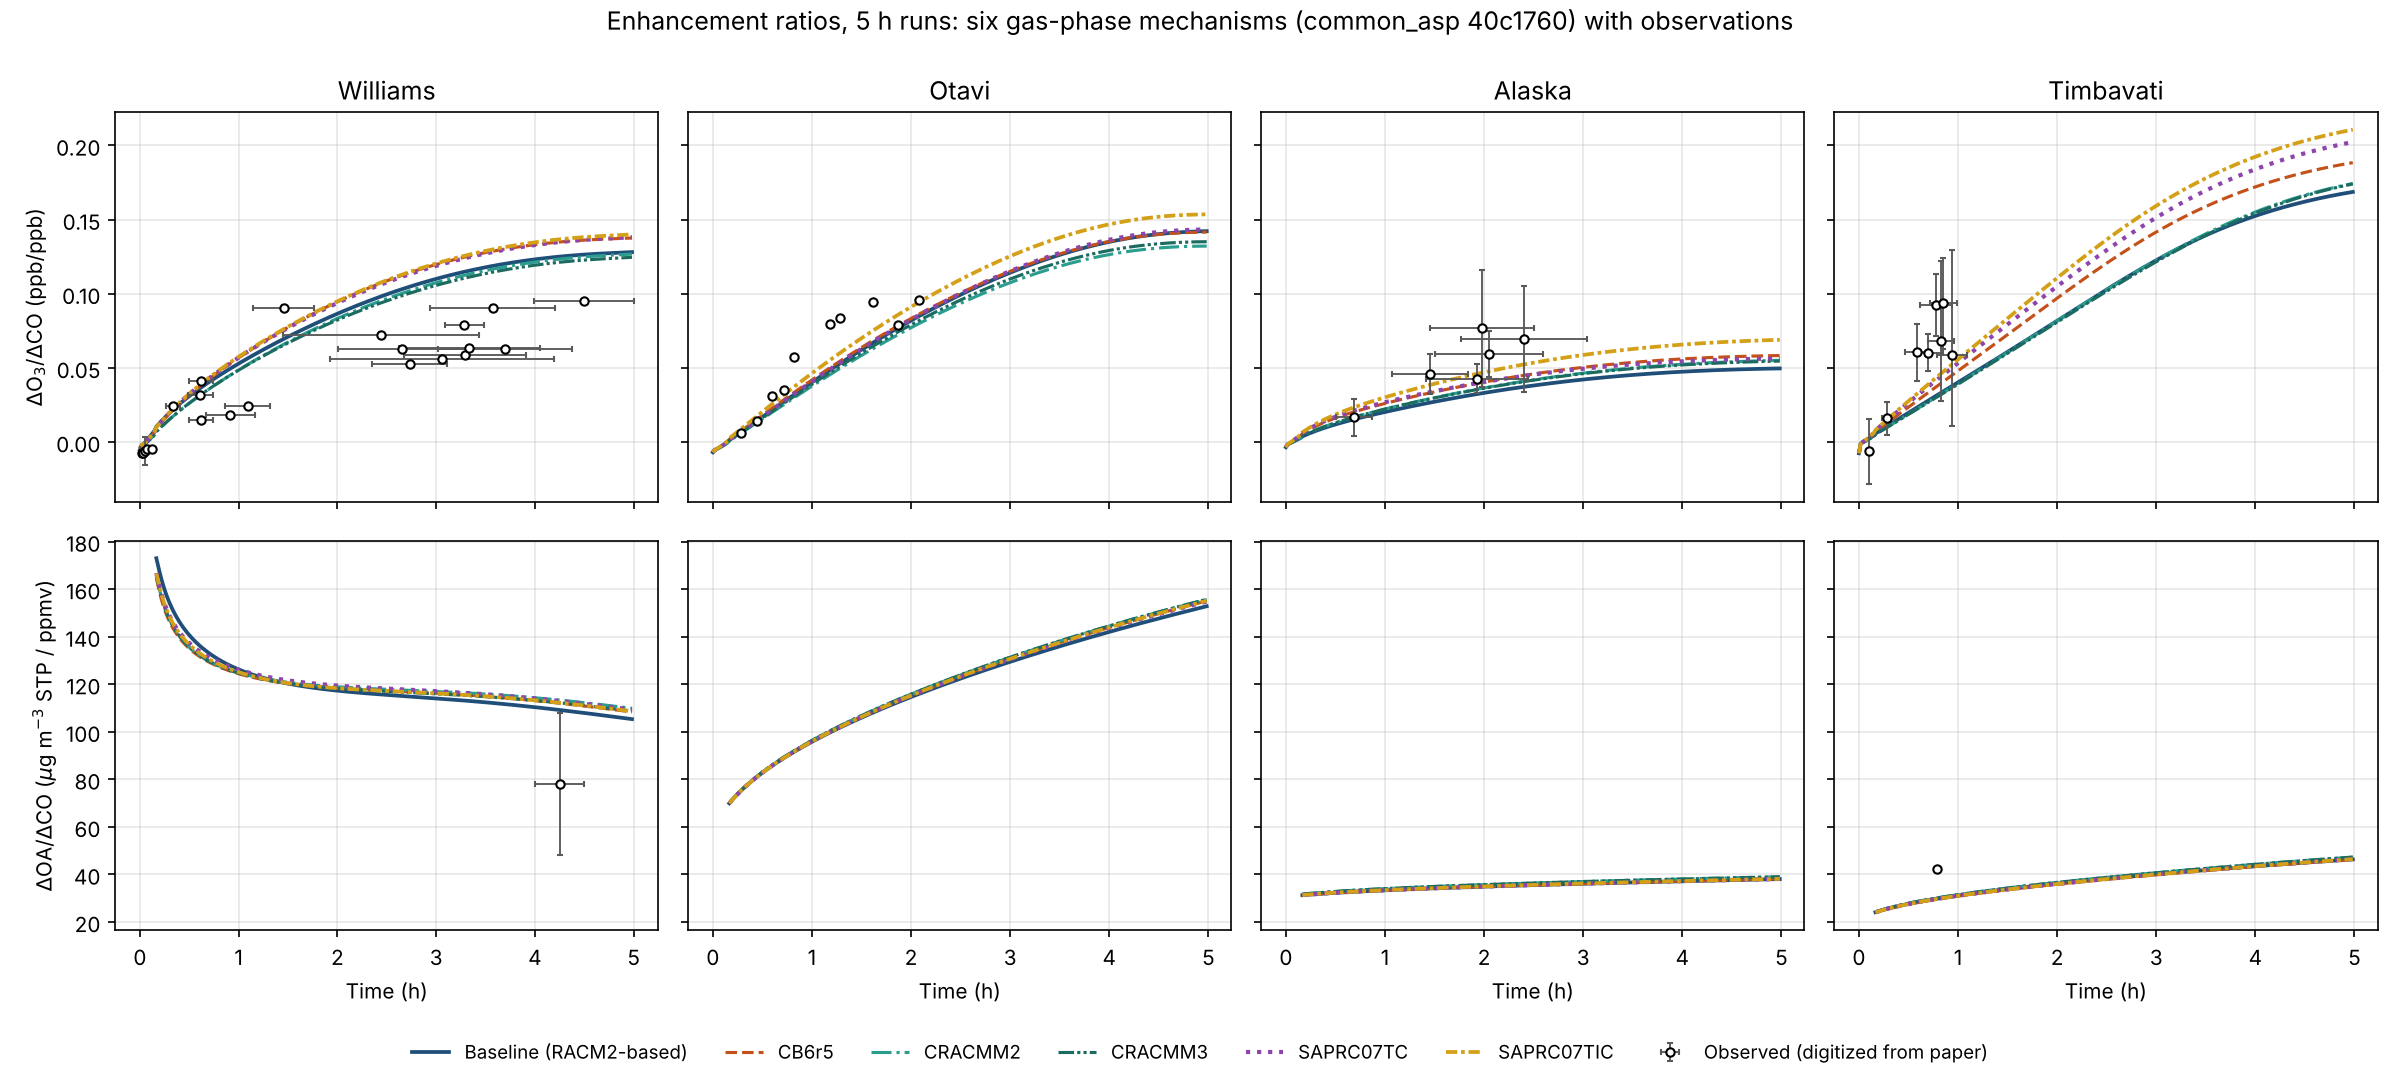
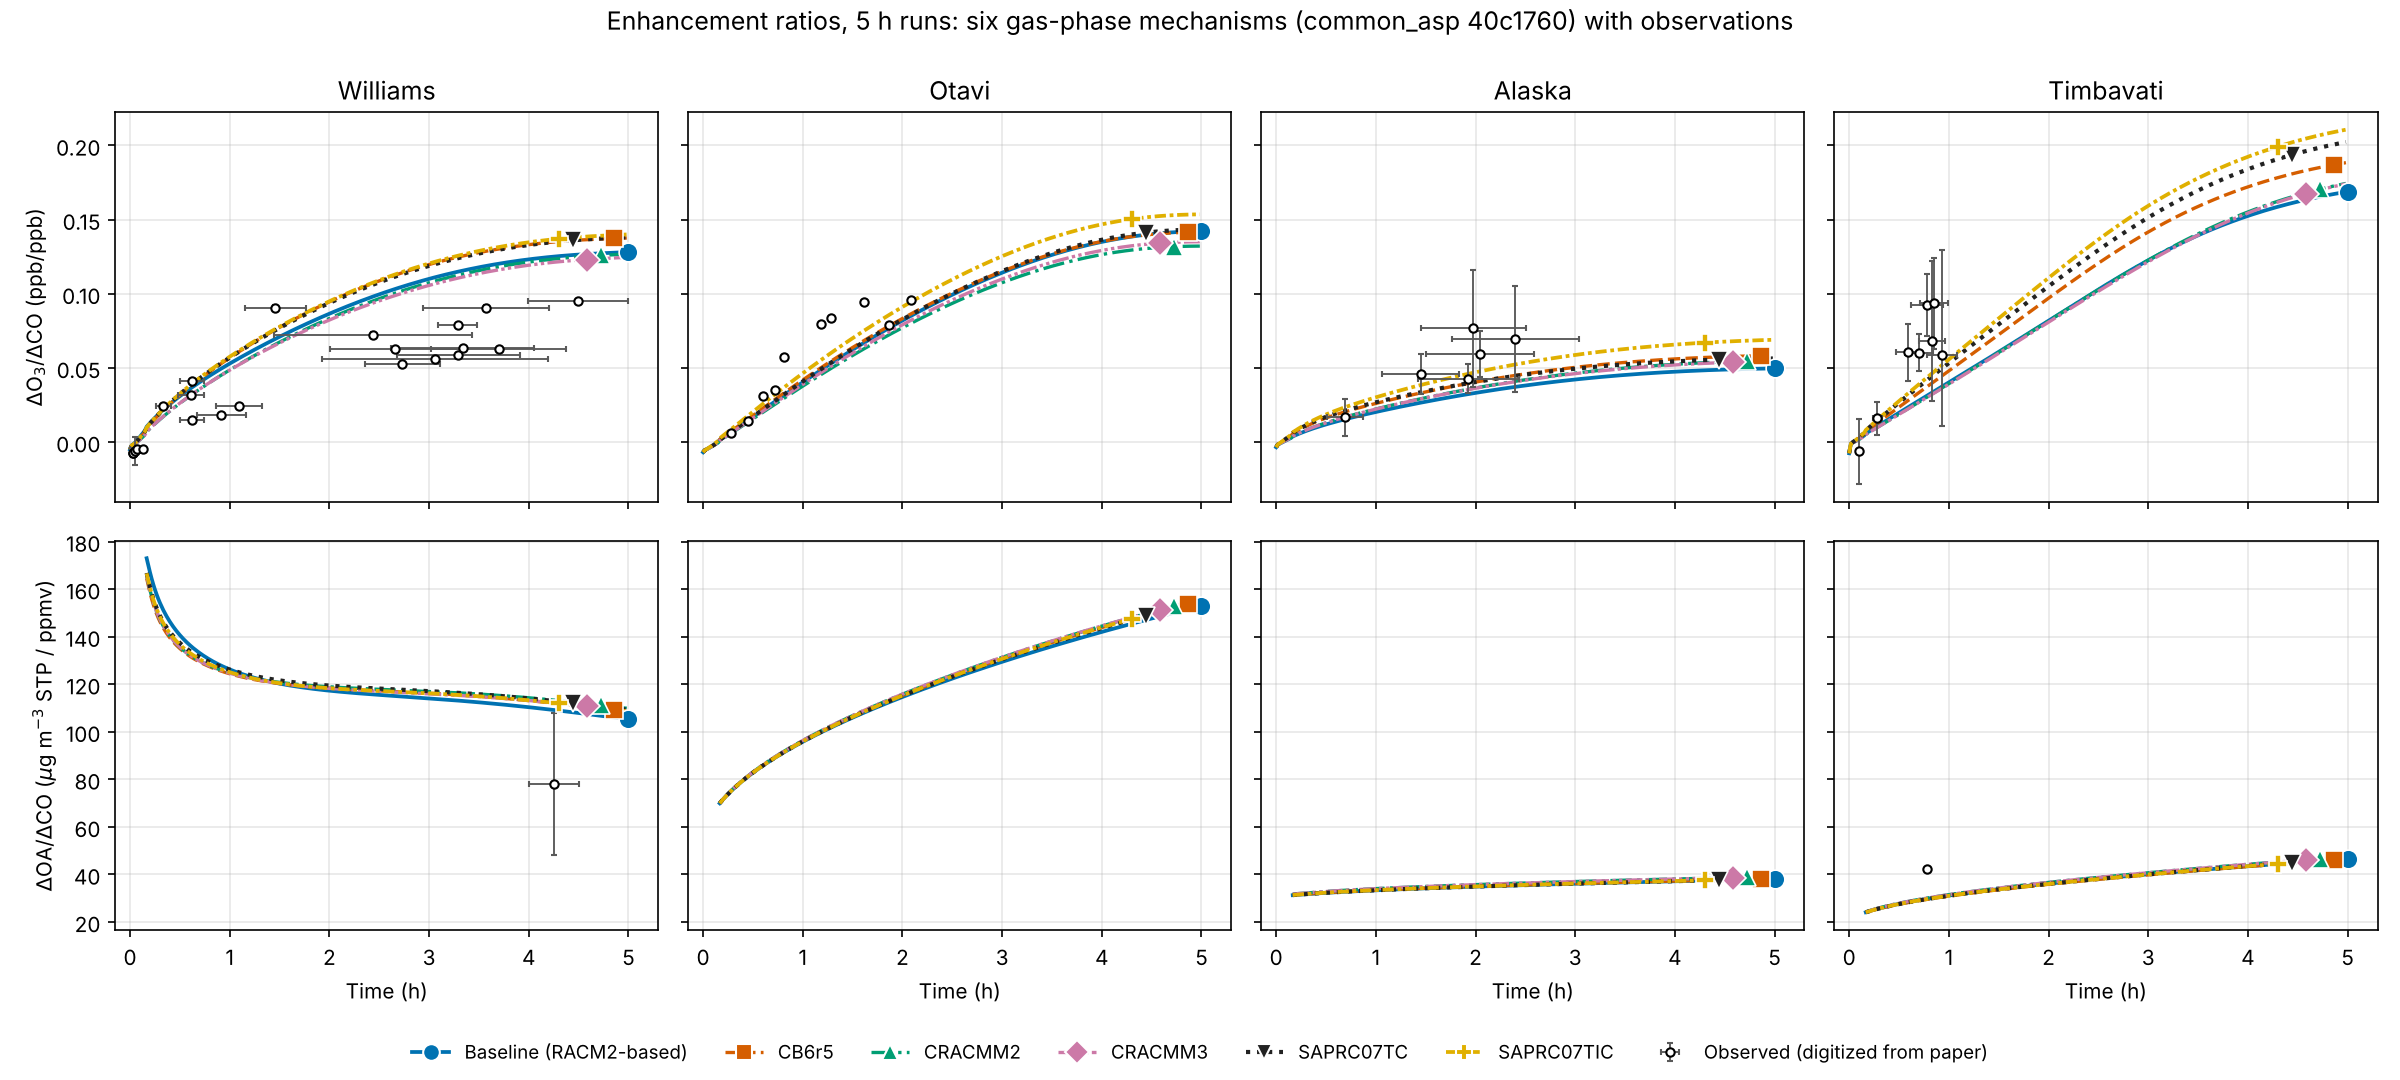
Plot: colorblind-safe palette and distinct end markers per mechanism
Claude-Session: https://claude.ai/code/session_01NKWstewGfixjYpUH8jReac

diff --git a/CB6r5Translation/plot_enhancement_ratios.py b/CB6r5Translation/plot_enhancement_ratios.py
@@ -43,18 +43,19 @@ def oa_series(run):
 
 fig, ax = plt.subplots(2, 4, figsize=(16, 7.2), sharex='col', sharey='row')
 # tag -> deck-name suffix, style
-MECHS = [('base', '', dict(color='#1f4e79', ls='-', lw=1.8, label='Baseline (RACM2-based)')),
-         ('cb6', '_CB6r5', dict(color='#c4511a', ls='--', lw=1.5, label='CB6r5')),
-         ('cr2', '_CRACMM2', dict(color='#2a9d8f', ls='-.', lw=1.5, label='CRACMM2')),
-         ('cr3', '_CRACMM3', dict(color='#1b6b60', ls=(0, (5, 1, 1, 1, 1, 1)), lw=1.5, label='CRACMM3')),
-         ('stc', '_SAPRC07TC', dict(color='#8e44ad', ls=':', lw=2.0, label='SAPRC07TC')),
-         ('sti', '_SAPRC07TIC', dict(color='#d4a017', ls=(0, (3, 1, 1, 1)), lw=1.8, label='SAPRC07TIC'))]
-sty = {t: st for t, _, st in MECHS}
+MECHS = [('base', '', dict(color='#0072B2', ls='-', lw=1.8, label='Baseline (RACM2-based)'), 'o'),
+         ('cb6', '_CB6r5', dict(color='#D55E00', ls='--', lw=1.6, label='CB6r5'), 's'),
+         ('cr2', '_CRACMM2', dict(color='#009E73', ls='-.', lw=1.6, label='CRACMM2'), '^'),
+         ('cr3', '_CRACMM3', dict(color='#CC79A7', ls=(0, (5, 1, 1, 1, 1, 1)), lw=1.6, label='CRACMM3'), 'D'),
+         ('stc', '_SAPRC07TC', dict(color='#222222', ls=':', lw=2.0, label='SAPRC07TC'), 'v'),
+         ('sti', '_SAPRC07TIC', dict(color='#E0B000', ls=(0, (3, 1, 1, 1)), lw=1.8, label='SAPRC07TIC'), 'P')]
+MARK = {t: mk for t, _, _, mk in MECHS}
+sty = {t: st for t, _, st, _ in MECHS}
 summary = []
 for j, case in enumerate(CASES):
     T, P = TP[case]
     bg = co_bg(case)
-    for tag, suf, _ in MECHS:
+    for tag, suf, _, _ in MECHS:
         run = f'{root}/{case}{suf}'
         if not os.path.isdir(run + '/OutputFiles'):
             continue
@@ -65,12 +66,15 @@ for j, case in enumerate(CASES):
         keep = np.r_[True, np.diff(te) > 0]
         te, o3r = te[keep], o3r[keep]
         ax[0, j].plot(te / 3600, o3r, **sty[tag])
+        xm = 5.0 - 0.14 * [t for t, _, _, _ in MECHS].index(tag)     # staggered so overlapping lines keep visible markers
+        ax[0, j].plot(xm, np.interp(xm, te / 3600, o3r), MARK[tag], color=sty[tag]['color'], ms=9, mec='white', mew=0.8, zorder=6)
         ta, oa = oa_series(run)
         dco = np.interp(ta, tg, co) - bg                      # ppb
         oa_stp = oa * (1013.25 / P) * (T / 273.15)            # ug/m3 STP
         ratio = oa_stp / (dco / 1000.0)                       # ug/m3 STP per ppmv
         m = ta >= 600                                         # skip the first 10 min (dCO ~ 0 or OA ~ 0)
         ax[1, j].plot(ta[m] / 3600, ratio[m], **sty[tag])
+        ax[1, j].plot(xm, np.interp(xm, ta / 3600, ratio), MARK[tag], color=sty[tag]['color'], ms=9, mec='white', mew=0.8, zorder=6)
         summary.append((case, tag, o3r[-1], ratio[-1], ta[-1] / 3600))
     def obs_plot(a, pts, first):
         for p in pts:
@@ -84,12 +88,15 @@ for j, case in enumerate(CASES):
     obs_plot(ax[0, j], OBS[case]['O3'], j == 0)
     obs_plot(ax[1, j], OBS[case]['OA'], False)
     ax[0, j].set_title(case)
+    ax[0, j].set_xlim(-0.15, 5.3)
     ax[1, j].set_xlabel('Time (h)')
     for r in (0, 1):
         ax[r, j].grid(alpha=0.3)
 ax[0, 0].set_ylabel(r'$\Delta$O$_3$/$\Delta$CO (ppb/ppb)')
 ax[1, 0].set_ylabel(r'$\Delta$OA/$\Delta$CO ($\mu$g m$^{-3}$ STP / ppmv)')
-h_, l_ = ax[0, 0].get_legend_handles_labels()
+from matplotlib.lines import Line2D
+h_ = [Line2D([], [], marker=MARK[t], mec='white', ms=8, **st) for t, _, st, _ in MECHS] + ax[0, 0].get_legend_handles_labels()[0][-1:]
+l_ = [st['label'] for _, _, st, _ in MECHS] + ax[0, 0].get_legend_handles_labels()[1][-1:]
 fig.legend(h_, l_, loc='lower center', ncol=7, frameon=False, fontsize=9)
 fig.suptitle('Enhancement ratios, 5 h runs: six gas-phase mechanisms (common_asp 40c1760) with observations', y=0.995)
 fig.tight_layout(rect=(0, 0.05, 1, 1))
